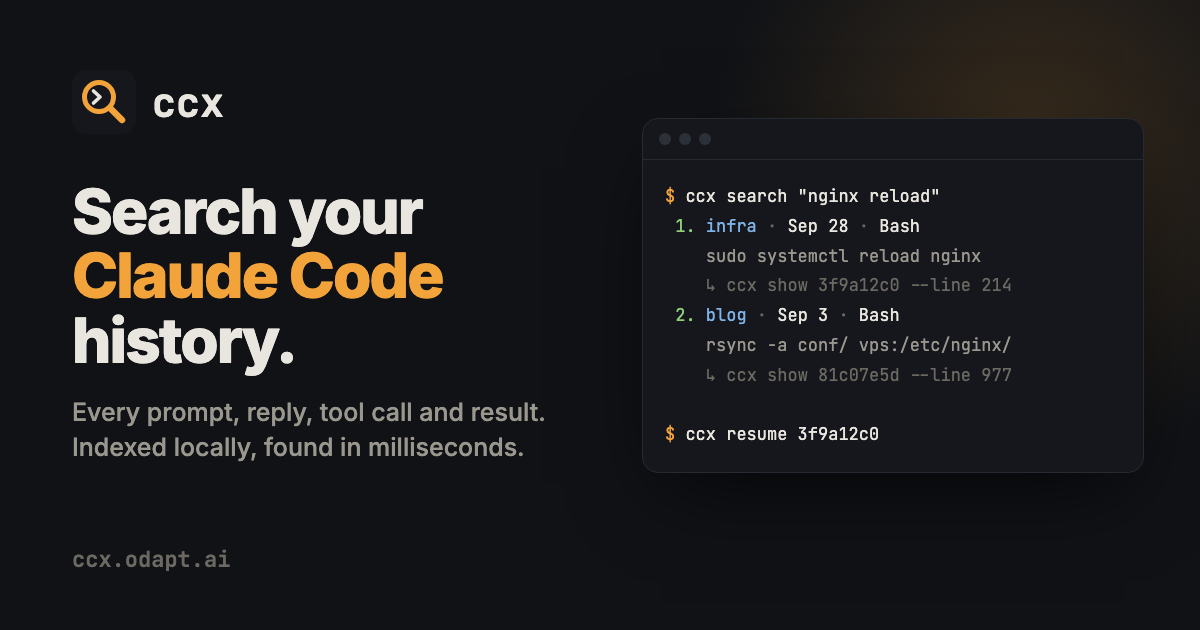
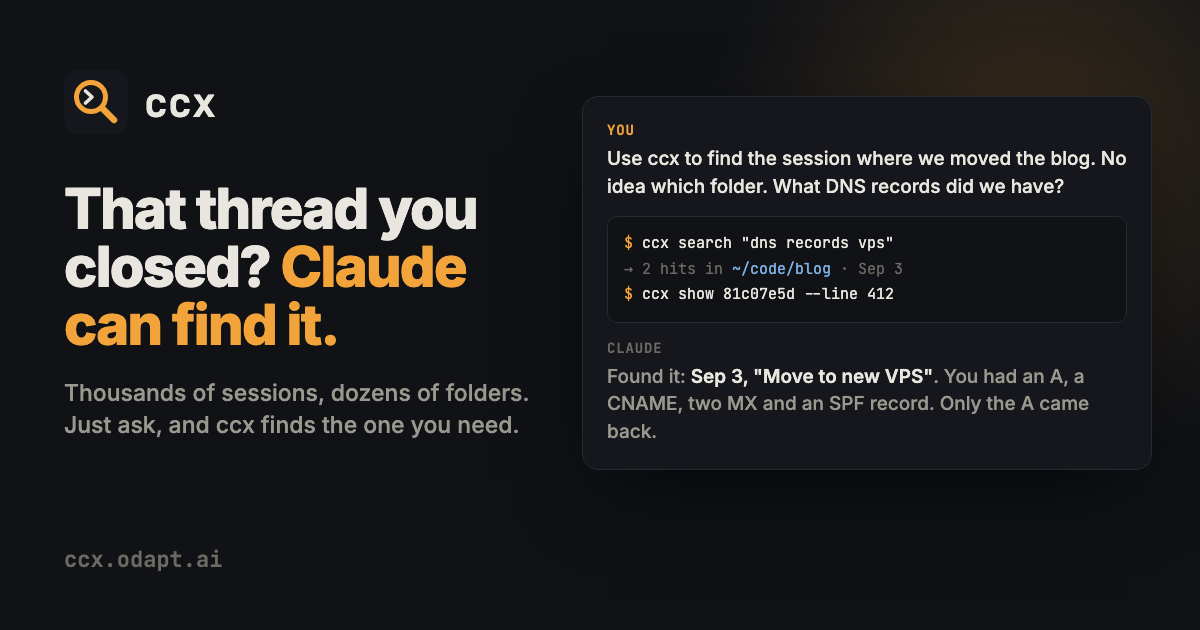
Lead the landing page with finding lost threads through Claude
Hero is now the Claude chat example, framed around finding a closed
thread when you can't remember which folder it was in. Prompt gallery
and CLAUDE.md snippet follow; the terminal demo, feature cards and
commands move into a "How it works" section. OG image and meta match.

diff --git a/site/index.html b/site/index.html
@@ -3,20 +3,20 @@
 <head>
 <meta charset="utf-8">
 <meta name="viewport" content="width=device-width, initial-scale=1">
-<title>ccx · Search your Claude Code history</title>
-<meta name="description" content="A tiny CLI that full-text indexes every Claude Code transcript on your machine: prompts, replies, tool calls and their output. Find that command from three weeks ago in milliseconds.">
-<meta property="og:title" content="ccx · Search your Claude Code history">
-<meta property="og:description" content="Full-text search over every prompt, reply, tool call and tool result in ~/.claude/projects. Zero dependencies, local only.">
+<title>ccx · Find any Claude Code thread</title>
+<meta name="description" content="Closed a Claude Code thread and can't find it again? ccx indexes every transcript on your machine so Claude can find it, pull the context, or resume it, no matter which folder you started in.">
+<meta property="og:title" content="ccx · Find any Claude Code thread">
+<meta property="og:description" content="Thousands of sessions, dozens of folders. Ask Claude and it finds the thread you need. Zero dependencies, local only.">
 <meta property="og:image" content="https://ccx.odapt.ai/og.png">
 <meta property="og:image:width" content="1200">
 <meta property="og:image:height" content="630">
-<meta property="og:image:alt" content="ccx: search your Claude Code history. A terminal shows ccx search results with ready-to-run show commands.">
+<meta property="og:image:alt" content="ccx: find any Claude Code thread. Claude uses ccx to find a closed session and answer from it.">
 <meta property="og:url" content="https://ccx.odapt.ai/">
 <meta property="og:type" content="website">
 <meta property="og:site_name" content="ccx">
 <meta name="twitter:card" content="summary_large_image">
-<meta name="twitter:title" content="ccx · Search your Claude Code history">
-<meta name="twitter:description" content="Full-text search over every prompt, reply, tool call and tool result in ~/.claude/projects. Zero dependencies, local only.">
+<meta name="twitter:title" content="ccx · Find any Claude Code thread">
+<meta name="twitter:description" content="Thousands of sessions, dozens of folders. Ask Claude and it finds the thread you need. Zero dependencies, local only.">
 <meta name="twitter:image" content="https://ccx.odapt.ai/og.png">
 <meta name="theme-color" content="#15171c">
 <link rel="icon" href="/favicon.ico" sizes="any">
@@ -42,11 +42,11 @@ nav { display: flex; align-items: center; justify-content: space-between; paddin
 .gh:hover { color: var(--text); border-color: #3a3f48; }
 .gh svg { width: 16px; height: 16px; fill: currentColor; }
 
-.hero { padding: 64px 0 40px; display: grid; gap: 48px; grid-template-columns: minmax(0, 1fr); }
+.hero { padding: 64px 0 56px; display: grid; gap: 40px; grid-template-columns: minmax(0, 1fr); }
 .hero > * { min-width: 0; }
-h1 { font-size: clamp(34px, 6vw, 60px); line-height: 1.05; letter-spacing: -0.03em; margin: 0 0 20px; font-weight: 800; }
+h1 { max-width: 820px; font-size: clamp(34px, 6vw, 60px); line-height: 1.05; letter-spacing: -0.03em; margin: 0 0 20px; font-weight: 800; }
 h1 em { font-style: normal; color: var(--amber); }
-.lede { font-size: 19px; color: var(--dim); max-width: 620px; margin: 0 0 30px; }
+.lede { font-size: 19px; color: var(--dim); max-width: 680px; margin: 0 0 30px; }
 .install { display: flex; align-items: center; gap: 12px; max-width: 620px; background: var(--panel); border: 1px solid var(--line); border-radius: 10px; padding: 12px 12px 12px 18px; font: 14px var(--mono); }
 .install code { flex: 1; overflow-x: auto; white-space: nowrap; color: var(--text); scrollbar-width: none; }
 .install code::-webkit-scrollbar { display: none; }
@@ -56,6 +56,7 @@ h1 em { font-style: normal; color: var(--amber); }
 .req { margin-top: 12px; font-size: 13px; color: var(--faint); }
 .req a { color: var(--dim); }
 
+#how .term { margin-bottom: 16px; }
 .term { background: var(--panel); border: 1px solid var(--line); border-radius: 12px; overflow: hidden; box-shadow: 0 30px 80px -30px rgba(0,0,0,.6); }
 .term .bar { display: flex; gap: 7px; padding: 12px 14px; border-bottom: 1px solid var(--line); }
 .term .bar i { width: 11px; height: 11px; border-radius: 50%; background: #2c3038; }
@@ -79,6 +80,7 @@ h2 { font-size: 28px; letter-spacing: -0.02em; margin: 0 0 8px; }
 .loop { display: flex; flex-wrap: wrap; align-items: center; gap: 10px; font: 14px var(--mono); margin-top: 28px; color: var(--dim); }
 .loop b { color: var(--text); background: var(--panel); border: 1px solid var(--line); border-radius: 8px; padding: 6px 12px; font-weight: 600; }
 
+.hero .chat { box-shadow: 0 30px 80px -30px rgba(0,0,0,.6); }
 .chat { background: var(--panel); border: 1px solid var(--line); border-radius: 12px; padding: 22px; display: grid; gap: 14px; }
 .msg { display: grid; grid-template-columns: 64px minmax(0, 1fr); gap: 12px; align-items: start; }
 .who { font: 600 12px var(--mono); color: var(--faint); text-transform: uppercase; letter-spacing: .05em; padding-top: 3px; }
@@ -104,7 +106,7 @@ footer { border-top: 1px solid var(--line); padding: 32px 0 48px; color: var(--f
 footer a { color: var(--dim); }
 
 @media (min-width: 900px) {
-  .hero { grid-template-columns: minmax(0, 1.05fr) minmax(0, 1fr); align-items: center; padding-top: 80px; }
+  .hero { padding-top: 80px; }
 }
 @media (max-width: 600px) {
   .wrap { padding: 0 16px; }
@@ -124,69 +126,28 @@ footer a { color: var(--dim); }
 
   <div class="hero">
     <div>
-      <h1>Search everything you've <em>ever done</em> in Claude Code.</h1>
-      <p class="lede">ccx indexes every transcript in <code>~/.claude/projects</code>: your prompts, the replies, every tool call and what it returned. Find the command from three weeks ago in milliseconds, then jump straight back into that session.</p>
+      <h1>That thread you closed? <em>Claude can find it.</em></h1>
+      <p class="lede">You know the conversation exists. It's somewhere in thousands of sessions, started from a folder you can't remember. ccx indexes every Claude Code transcript on your machine, so you just ask: Claude finds the thread, pulls the context you need, or hands you the line to resume it.</p>
       <div class="install">
         <code id="installCmd"><span class="p">$ </span>git clone https://github.com/luquitared/ccx &amp;&amp; cd ccx &amp;&amp; bun link &amp;&amp; ccx index</code>
         <button class="copy" id="copyBtn">Copy</button>
       </div>
-      <div class="req">Needs <a href="https://bun.sh" data-out="bun">Bun</a> ≥ 1.1. Zero dependencies. Nothing leaves your machine.</div>
+      <div class="req">Needs <a href="https://bun.sh" data-out="bun">Bun</a> ≥ 1.1. Zero dependencies. Nothing leaves your machine. Then <a href="#automatic">add one snippet to CLAUDE.md</a>.</div>
     </div>
-    <div class="term" aria-label="Example ccx search output">
-      <div class="bar"><i></i><i></i><i></i></div>
-<pre><span class="c">$</span> ccx search "nginx reload" -t Bash
-<span class="g"> 1.</span> <span class="b">infra</span> <span class="d">·</span> Sep 28 14:02 <span class="d">·</span> Fix TLS renewal
-    <span class="m">sudo systemctl reload nginx</span>
-    <span class="d">↳ ccx show 3f9a12c0 --line 214</span>
-<span class="g"> 2.</span> <span class="b">blog</span> <span class="d">·</span> Sep 3 09:41 <span class="d">·</span> Move to new VPS
-    <span class="m">rsync -a conf/ vps:/etc/nginx/</span>
-    <span class="d">↳ ccx show 81c07e5d --line 977</span>
-
-<span class="c">$</span> ccx resume 3f9a12c0
-<span class="m">cd ~/code/infra &amp;&amp; claude -r 3f9a…</span></pre>
+    <div class="chat">
+      <div class="msg"><span class="who u">You</span><div class="bubble user">Use ccx to find the session where we moved the blog to the new VPS, no idea which folder I was in. The DNS records are gone from the old registrar, what did we have?</div></div>
+      <div class="msg"><span class="who">Claude</span><div class="tool"><span class="c">$</span> ccx index
+<span class="d">Indexed 3 changed file(s) of 2955 scanned (0.4s)</span>
+<span class="c">$</span> ccx search "dns records vps" -t Bash --json -n 5
+<span class="d">→ 2 hits, both in</span> <span class="b">~/code/blog</span> <span class="d">· Sep 3 · "Move to new VPS"</span>
+<span class="c">$</span> ccx show 81c07e5d --line 412 -C 6 --json
+<span class="d">→ 13 blocks: the dig output from before the move, then the new A record</span></div></div>
+      <div class="msg"><span class="who">Claude</span><div class="bubble ans">Found it: <b>Sep 3, "Move to new VPS"</b>. Before the move you had an A record for the apex, a CNAME for <code>www</code>, two MX records for your mail host and a TXT record for SPF. We only re-created the A record afterwards, which is why mail stopped. Want me to add the other four back? Or <code>ccx resume 81c07e5d</code> to jump into that thread.</div></div>
     </div>
   </div>
 
-  <section>
-    <h2>Claude Code keeps everything. It just can't find it.</h2>
-    <p class="sub">Every session is saved as JSONL on your disk, often gigabytes of it. ccx turns that pile into a SQLite full-text index you can query like grep, only ranked and fast.</p>
-    <div class="grid">
-      <div class="card"><span class="k">All of it</span><b>Not just the chat</b><p>Prompts, replies, thinking, tool calls with their inputs, tool results, summaries, titles, and subagent transcripts.</p></div>
-      <div class="card"><span class="k">Fast</span><b>Milliseconds, ranked</b><p>SQLite FTS5 with BM25 ranking. Re-indexing only touches changed files, so it's sub-second when nothing's new.</p></div>
-      <div class="card"><span class="k">Clean</span><b>Noise filtered out</b><p>Injected reminders, hook output and resume replays are skipped, and every entry is indexed exactly once.</p></div>
-      <div class="card"><span class="k">Agent-ready</span><b>JSON everywhere</b><p><code>--json</code> on search, show and sessions, so a Claude session can search its own past and read just the ~10 blocks it needs.</p></div>
-    </div>
-  </section>
-
-  <section>
-    <h2>Five commands</h2>
-    <p class="sub">Filter by project, time window, tool or block kind. Every hit prints the command to open it.</p>
-    <div class="cmds">
-      <div class="cmd"><code>ccx search "rate limit" -p my-api -s 2w</code><span>Ranked hits from one project in the last two weeks</span></div>
-      <div class="cmd"><code>ccx search "presigned url" -t Bash</code><span>Only Bash tool calls</span></div>
-      <div class="cmd"><code>ccx show 3f9a12c0 --line 214 -C 8</code><span>The conversation around a hit, rendered</span></div>
-      <div class="cmd"><code>ccx sessions -p my-api -s 1m</code><span>Sessions, newest first, with titles</span></div>
-      <div class="cmd"><code>ccx resume 3f9a12c0</code><span>Prints the <code>cd … &amp;&amp; claude -r</code> line to pick it back up</span></div>
-    </div>
-    <div class="loop"><b>search</b>→<b>show</b>→<b>resume</b></div>
-  </section>
-
   <section id="memory">
-    <h2>Long-term memory for Claude</h2>
-    <p class="sub">Claude starts every session with an empty head. Give it ccx and it can look up what you did last week the same way you would: search, read the few blocks that matter, carry on. Just say "use ccx".</p>
-
-    <div class="chat">
-      <div class="msg"><span class="who u">You</span><div class="bubble user">Use ccx to find the session where we moved the blog to the new VPS. The DNS records are gone from the old registrar, what did we have?</div></div>
-      <div class="msg"><span class="who">Claude</span><div class="tool"><span class="c">$</span> ccx index
-<span class="d">Indexed 3 changed file(s) of 2955 scanned (0.4s)</span>
-<span class="c">$</span> ccx search "dns records" -p blog -t Bash --json -n 5
-<span class="d">→ 2 hits ·</span> <span class="b">blog</span> <span class="d">· Sep 3 · "Move to new VPS"</span>
-<span class="c">$</span> ccx show 81c07e5d --line 412 -C 6 --json
-<span class="d">→ 13 blocks: the dig output from before the move, then the new A record</span></div></div>
-      <div class="msg"><span class="who">Claude</span><div class="bubble ans">Found it: <b>Sep 3, "Move to new VPS"</b>. Before the move you had an A record for the apex, a CNAME for <code>www</code>, two MX records for your mail host and a TXT record for SPF. We only re-created the A record afterwards, which is why mail stopped. Want me to add the other four back?</div></div>
-    </div>
-
-    <h3>Things people ask</h3>
+    <h2>Things people ask Claude</h2>
     <p class="sub">Each one turns into a search or two and a <code>show</code> of the right slice. Claude never has to read a whole transcript.</p>
     <div class="asks">
       <div class="ask"><q>"Find the session where I fine-tuned the model with LoRA. Which learning rate did we land on?"</q><code>ccx search "lora learning rate" -k assistant
@@ -201,8 +162,10 @@ ccx show &lt;id&gt; --tail 20 --json</code><p class="why">Learn from its own pas
       <div class="ask"><q>"Go through my last three months of sessions. What have I built that I could turn into X? Rank them."</q><code>ccx sessions -s 3m -n 200 --json
 ccx search "&lt;theme&gt;" --json -n 30</code><p class="why">Mine your whole history for patterns.</p></div>
     </div>
+  </section>
 
-    <h3>Make it automatic</h3>
+  <section id="automatic">
+    <h2>Make it automatic</h2>
     <p class="sub">Paste this into <code>~/.claude/CLAUDE.md</code> and Claude reaches for ccx on its own whenever you mention an earlier conversation.</p>
     <div class="snippet">
       <button class="copy" id="copySnippet">Copy</button>
@@ -217,6 +180,41 @@ this") or you need context you don't have:
 3. Say what you found (date and session title), or that nothing matched.
 If I want to jump back in, give me the `ccx resume &lt;session&gt;` line.</pre>
     </div>
+  </section>
+
+  <section id="how">
+    <h2>How it works</h2>
+    <p class="sub">Claude Code saves every session as JSONL on your disk, often gigabytes of it. ccx turns that pile into a SQLite full-text index that Claude, or you, can query like grep, only ranked and fast.</p>
+    <div class="term" aria-label="Example ccx search output">
+      <div class="bar"><i></i><i></i><i></i></div>
+<pre><span class="c">$</span> ccx search "nginx reload" -t Bash
+<span class="g"> 1.</span> <span class="b">infra</span> <span class="d">·</span> Sep 28 14:02 <span class="d">·</span> Fix TLS renewal
+    <span class="m">sudo systemctl reload nginx</span>
+    <span class="d">↳ ccx show 3f9a12c0 --line 214</span>
+<span class="g"> 2.</span> <span class="b">blog</span> <span class="d">·</span> Sep 3 09:41 <span class="d">·</span> Move to new VPS
+    <span class="m">rsync -a conf/ vps:/etc/nginx/</span>
+    <span class="d">↳ ccx show 81c07e5d --line 977</span>
+
+<span class="c">$</span> ccx resume 3f9a12c0
+<span class="m">cd ~/code/infra &amp;&amp; claude -r 3f9a…</span></pre>
+    </div>
+    <div class="grid">
+      <div class="card"><span class="k">All of it</span><b>Not just the chat</b><p>Prompts, replies, thinking, tool calls with their inputs, tool results, summaries, titles, and subagent transcripts.</p></div>
+      <div class="card"><span class="k">Fast</span><b>Milliseconds, ranked</b><p>SQLite FTS5 with BM25 ranking. Re-indexing only touches changed files, so it's sub-second when nothing's new.</p></div>
+      <div class="card"><span class="k">Clean</span><b>Noise filtered out</b><p>Injected reminders, hook output and resume replays are skipped, and every entry is indexed exactly once.</p></div>
+      <div class="card"><span class="k">Agent-ready</span><b>JSON everywhere</b><p><code>--json</code> on search, show and sessions, so a Claude session can search its own past and read just the ~10 blocks it needs.</p></div>
+    </div>
+
+    <h3>Five commands</h3>
+    <p class="sub">Filter by project, time window, tool or block kind. Every hit prints the command to open it.</p>
+    <div class="cmds">
+      <div class="cmd"><code>ccx search "rate limit" -p my-api -s 2w</code><span>Ranked hits from one project in the last two weeks</span></div>
+      <div class="cmd"><code>ccx search "presigned url" -t Bash</code><span>Only Bash tool calls</span></div>
+      <div class="cmd"><code>ccx show 3f9a12c0 --line 214 -C 8</code><span>The conversation around a hit, rendered</span></div>
+      <div class="cmd"><code>ccx sessions -p my-api -s 1m</code><span>Sessions, newest first, with titles</span></div>
+      <div class="cmd"><code>ccx resume 3f9a12c0</code><span>Prints the <code>cd … &amp;&amp; claude -r</code> line to pick it back up</span></div>
+    </div>
+    <div class="loop"><b>search</b>→<b>show</b>→<b>resume</b></div>
   </section>
 
   <footer>

diff --git a/assets/og.html b/assets/og.html
@@ -1,31 +1,30 @@
 <!doctype html><html><head><meta charset="utf-8">
-<link href="https://fonts.googleapis.com/css2?family=JetBrains+Mono:wght@400;600;700&family=Inter:wght@500;800&display=swap" rel="stylesheet">
+<link href="https://fonts.googleapis.com/css2?family=JetBrains+Mono:wght@400;600;700&family=Inter:wght@500;600;800&display=swap" rel="stylesheet">
 <style>
 body{margin:0;width:1200px;height:630px;background:#101216;color:#e9e6df;font-family:Inter,sans-serif;overflow:hidden;position:relative}
 .glow{position:absolute;right:-180px;top:-200px;width:700px;height:700px;background:radial-gradient(circle,rgba(242,163,58,.18),transparent 65%)}
-.l{position:absolute;left:72px;top:70px;width:560px}
+.l{position:absolute;left:64px;top:70px;width:500px}
 .brand{display:flex;align-items:center;gap:16px;font:700 40px 'JetBrains Mono',monospace}
 .brand img{width:64px;height:64px}
-h1{font-size:62px;line-height:1.04;letter-spacing:-.03em;margin:46px 0 22px;font-weight:800}
+h1{font-size:56px;line-height:1.04;letter-spacing:-.03em;margin:46px 0 22px;font-weight:800}
 h1 em{font-style:normal;color:#f2a33a}
-p{font-size:25px;color:#9a978f;margin:0;line-height:1.4}
-.t{position:absolute;right:56px;top:118px;width:500px;background:#15171c;border:1px solid #262a31;border-radius:16px;overflow:hidden;box-shadow:0 30px 80px -20px rgba(0,0,0,.7)}
-.bar{display:flex;gap:8px;padding:14px 16px;border-bottom:1px solid #262a31}.bar i{width:12px;height:12px;border-radius:50%;background:#2c3038}
-pre{margin:0;padding:22px;font:17px/1.75 'JetBrains Mono',monospace;white-space:pre}
+p{font-size:23px;color:#9a978f;margin:0;line-height:1.4}
+.t{position:absolute;right:48px;top:96px;width:520px;background:#15171c;border:1px solid #262a31;border-radius:16px;overflow:hidden;box-shadow:0 30px 80px -20px rgba(0,0,0,.7)}
+.t{padding:24px;display:grid;gap:16px}
+.msg{font-size:19px;line-height:1.45;display:grid;gap:6px}
+.who{font:600 14px 'JetBrains Mono',monospace;color:#6b6962;text-transform:uppercase;letter-spacing:.06em}.who.u{color:#f2a33a}
+.ans{color:#9a978f}.ans b{color:#e9e6df;font-weight:600}
+pre{margin:0;padding:14px 16px;background:#101216;border:1px solid #262a31;border-radius:10px;font:15px/1.7 'JetBrains Mono',monospace;white-space:pre}
 .c{color:#f2a33a}.d{color:#6b6962}.g{color:#8fcf7a}.b{color:#7fb2e6}.m{color:#9a978f}
-.url{position:absolute;left:72px;bottom:56px;font:600 22px 'JetBrains Mono',monospace;color:#6b6962}
+.url{position:absolute;left:64px;bottom:56px;font:600 22px 'JetBrains Mono',monospace;color:#6b6962}
 </style></head><body><div class="glow"></div>
 <div class="l"><div class="brand"><img src="logo.svg">ccx</div>
-<h1>Search your <em>Claude Code</em> history.</h1>
-<p>Every prompt, reply, tool call and result. Indexed locally, found in milliseconds.</p></div>
-<div class="t"><div class="bar"><i></i><i></i><i></i></div><pre><span class="c">$</span> ccx search "nginx reload"
-<span class="g"> 1.</span> <span class="b">infra</span> <span class="d">·</span> Sep 28 <span class="d">·</span> Bash
-    <span class="m">sudo systemctl reload nginx</span>
-    <span class="d">↳ ccx show 3f9a12c0 --line 214</span>
-<span class="g"> 2.</span> <span class="b">blog</span> <span class="d">·</span> Sep 3 <span class="d">·</span> Bash
-    <span class="m">rsync -a conf/ vps:/etc/nginx/</span>
-    <span class="d">↳ ccx show 81c07e5d --line 977</span>
-
-<span class="c">$</span> ccx resume 3f9a12c0</pre></div>
+<h1>That thread you closed? <em>Claude can find it.</em></h1>
+<p>Thousands of sessions, dozens of folders. Just ask, and ccx finds the one you need.</p></div>
+<div class="t"><div class="msg"><span class="who u">You</span><div>Use ccx to find the session where we moved the blog. No idea which folder. What DNS records did we have?</div></div>
+<pre><span class="c">$</span> ccx search "dns records vps"
+<span class="d">→ 2 hits in</span> <span class="b">~/code/blog</span> <span class="d">· Sep 3</span>
+<span class="c">$</span> ccx show 81c07e5d --line 412</pre>
+<div class="msg"><span class="who">Claude</span><div class="ans">Found it: <b>Sep 3, "Move to new VPS"</b>. You had an A, a CNAME, two MX and an SPF record. Only the A came back.</div></div></div>
 <div class="url">ccx.odapt.ai</div>
 </body></html>
